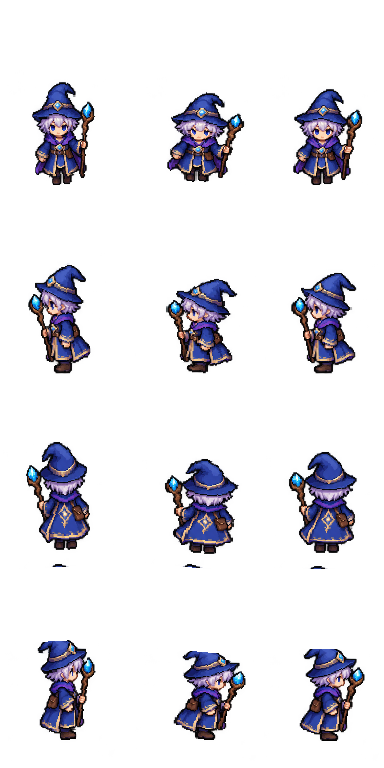
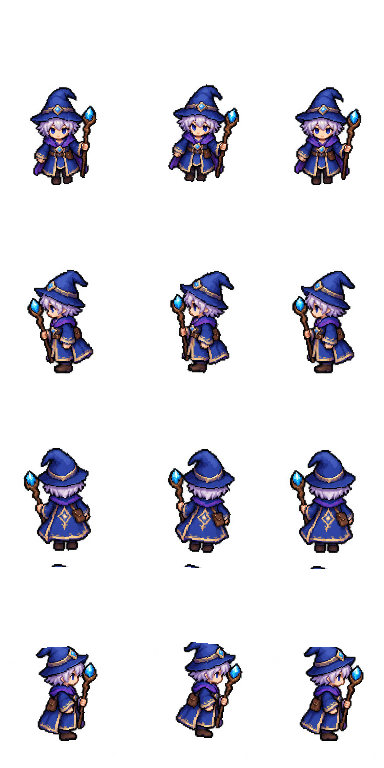
.

diff --git a/public/chars.js b/public/chars.js
@@ -1,7 +1,7 @@
 // Personagens em camadas (paper doll) a partir das folhas PNG geradas — As Aventuras do Piper
 const CHARS = (function () {
   const D = DEFS, SHEETS = {}, ANIMATIONS = {}, cache = new Map();
-  const ASSET_REV = 'motion-pixel-actions-1';
+  const ASSET_REV = 'motion-pixel-actions-3';
   let CW = 128, CH = 192, ready = false;
 
   async function load(onProgress) {

diff --git a/tools/build_generated_sprites.py b/tools/build_generated_sprites.py
@@ -48,31 +48,30 @@ ENEMY_FRAMES = 8
 def write_character_motion(rows, destination):
     """Cria 12 poses ancoradas: repouso, oito passadas e ataque completo."""
     output = Image.new('RGBA', (128 * CHARACTER_FRAMES, 768), (0, 0, 0, 0))
-    # repouso; oito passadas que fecham um ciclo contínuo; preparar, golpear,
-    # recuperar. Todas conservam a mesma sola para não flutuar no tile.
+    # Repouso, oito passadas e ataque. A arte de origem contém três desenhos
+    # conceitualmente diferentes por direção (não uma sequência de poses);
+    # misturá-los fazia armadura/cabelo trocarem no meio da caminhada. Todas as
+    # poses partem agora da mesma silhueta base de cada direção.
     poses = (
         (0, 1.00, 1.00, 0, 0, 0),
-        (1, 0.98, 1.02, -3, 0, 0.8),
-        (1, 0.96, 1.04, -4, 0, 1.5),
-        (2, 0.99, 1.01, -1, 0, 0.6),
-        (2, 1.02, 0.98, 3, 0, -0.8),
-        (2, 1.04, 0.96, 4, 0, -1.6),
-        (1, 1.02, 0.98, 2, 0, -0.8),
-        (1, 0.99, 1.01, -1, 0, 0.3),
+        (0, 1.00, 1.00, -3, 0, 0.8),
+        (0, 1.00, 1.00, -4, 0, 1.5),
+        (0, 1.00, 1.00, -1, 0, 0.6),
+        (0, 1.00, 1.00, 3, 0, -0.8),
+        (0, 1.00, 1.00, 4, 0, -1.6),
+        (0, 1.00, 1.00, 2, 0, -0.8),
+        (0, 1.00, 1.00, -1, 0, 0.3),
         (0, 1.00, 1.00, 0, 0, 0),
-        (0, 0.94, 1.05, -5, 0, 3.0),
-        (0, 1.10, 0.92, 8, 0, -5.0),
-        (0, 1.02, 0.98, 3, 0, -1.5),
+        (0, 1.00, 1.00, -5, 0, 3.0),
+        (0, 1.00, 1.00, 8, 0, -5.0),
+        (0, 1.00, 1.00, 3, 0, -1.5),
     )
-    # deslocamento alternado das duas pernas durante a caminhada. O valor é
-    # aplicado abaixo do joelho, para que a passada pareça dobrar a perna em
-    # vez de simplesmente deslizar o personagem inteiro.
-    gait = (0, -2, -5, -3, 0, 3, 5, 2, 0)
     for row, cells in enumerate(rows):
         for frame, (source, sx, sy, dx, dy, angle) in enumerate(poses):
             pose = motion_pose(cells[source], sx, sy, dx, dy, angle, 128, 192, 185)
-            if 1 <= frame <= 8:
-                pose = stride_legs(pose, gait[frame], 185)
+            # A oscilação do corpo já dá leitura de passada. O recorte de
+            # pernas só é seguro quando a arte vem em camadas; nesta folha ele
+            # cortava capas e armas em alguns ângulos, então não é aplicado.
             output.alpha_composite(pose, (frame * 128, row * 192))
     output.save(destination, optimize=True)
 
@@ -105,46 +104,6 @@ def export_main_action_sheets():
                     cell = sheet.crop(((start + index) * 128, row * 192, (start + index + 1) * 128, (row + 1) * 192))
                     output.alpha_composite(cell, (index * 128, row * 192))
             output.save(target / f'{action}.png', optimize=True)
-
-
-def stride_legs(frame, stride, ground):
-    """Alterna os dois pés sob o joelho sem quebrar a base no chão.
-
-    As folhas recebidas não possuem camadas de perna separadas. Trabalhamos
-    apenas a faixa inferior dos dois lados, girando-a em torno do joelho e
-    recolocando cada bota na linha do chão. Em escala de jogo isso dá a
-    leitura de joelho dobrando, passada e apoio, sem halos translúcidos.
-    """
-    alpha = frame.getchannel('A')
-    box = alpha.getbbox()
-    if not box or not stride:
-        return frame
-    knee = max(box[1] + int((box[3] - box[1]) * .62), ground - 34)
-    mid = frame.width // 2
-    # A pequena sobreposição no centro cobre pernas que se cruzam na visão
-    # frontal, enquanto os extremos mantêm braços, arma e escudo intactos.
-    leg_boxes = ((max(0, mid - 42), knee, mid + 5, ground + 1, -1),
-                 (mid - 5, knee, min(frame.width, mid + 42), ground + 1, 1))
-    out = frame.copy()
-    for x0, y0, x1, y1, side in leg_boxes:
-        part = frame.crop((x0, y0, x1, y1))
-        part_alpha = part.getchannel('A')
-        if not part_alpha.getbbox():
-            continue
-        # Apaga somente pixels opacos da perna original; transparência do
-        # recorte não afeta o corpo, capa ou cenário atrás do sprite.
-        out.paste((0, 0, 0, 0), (x0, y0, x1, y1), part_alpha)
-        leg = part.rotate(side * stride * 1.05, resample=Image.Resampling.NEAREST,
-                          center=(part.width // 2, 1), translate=(side * stride, 0))
-        leg_box = leg.getchannel('A').getbbox()
-        if not leg_box:
-            continue
-        # A bota sempre termina no chão; assim o passo não vira levitação.
-        dy = ground - (y0 + leg_box[3])
-        out.alpha_composite(leg, (x0, y0 + dy))
-    return out
-
-
 def normalize_npc_sheet(source, destination, target_height=111):
     """Iguala a silhueta dos NPCs à altura visual do personagem principal."""
     image = Image.open(source).convert('RGBA')
